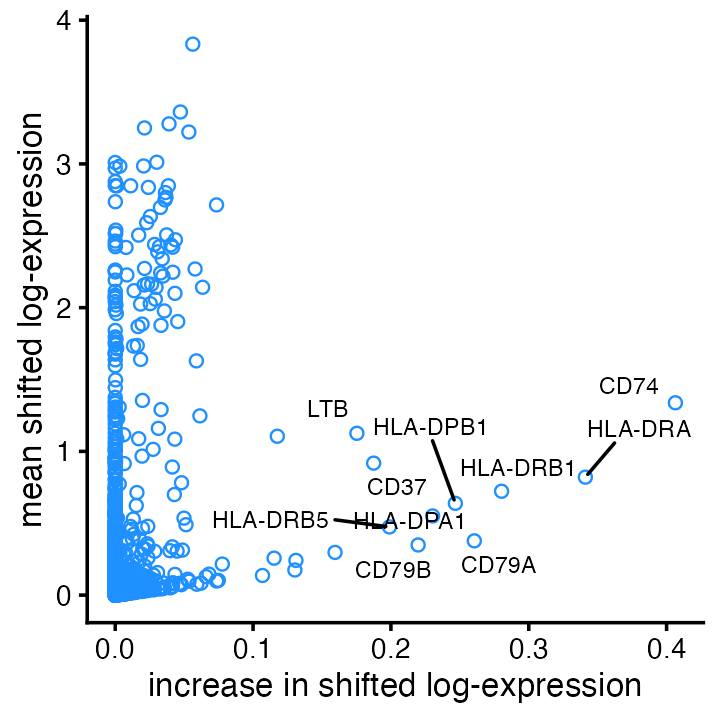
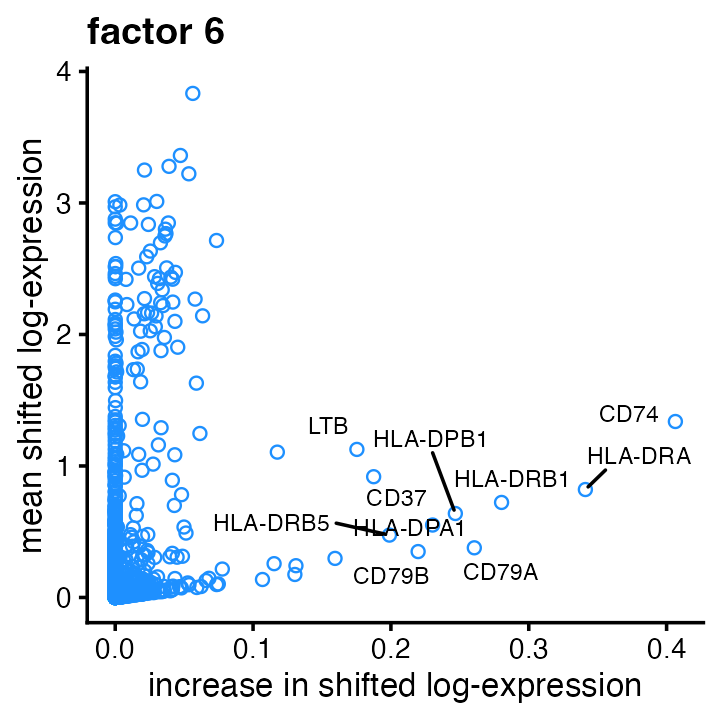
Added note about semi-NMF to single-cell vignette; also changed the title.

diff --git a/docs/articles/flashier_single_cell.html b/docs/articles/flashier_single_cell.html
@@ -5,13 +5,13 @@
 <meta charset="utf-8">
 <meta http-equiv="X-UA-Compatible" content="IE=edge">
 <meta name="viewport" content="width=device-width, initial-scale=1.0">
-<title>Analysis of single-cell RNA-seq data using flashier • flashier</title>
+<title>Empirical Bayes non-negative matrix factorization for single-cell RNA-seq data • flashier</title>
 <!-- jquery --><script src="https://cdnjs.cloudflare.com/ajax/libs/jquery/3.4.1/jquery.min.js" integrity="sha256-CSXorXvZcTkaix6Yvo6HppcZGetbYMGWSFlBw8HfCJo=" crossorigin="anonymous"></script><!-- Bootstrap --><link rel="stylesheet" href="https://cdnjs.cloudflare.com/ajax/libs/twitter-bootstrap/3.4.1/css/bootstrap.min.css" integrity="sha256-bZLfwXAP04zRMK2BjiO8iu9pf4FbLqX6zitd+tIvLhE=" crossorigin="anonymous">
 <script src="https://cdnjs.cloudflare.com/ajax/libs/twitter-bootstrap/3.4.1/js/bootstrap.min.js" integrity="sha256-nuL8/2cJ5NDSSwnKD8VqreErSWHtnEP9E7AySL+1ev4=" crossorigin="anonymous"></script><!-- bootstrap-toc --><link rel="stylesheet" href="../bootstrap-toc.css">
 <script src="../bootstrap-toc.js"></script><!-- Font Awesome icons --><link rel="stylesheet" href="https://cdnjs.cloudflare.com/ajax/libs/font-awesome/5.12.1/css/all.min.css" integrity="sha256-mmgLkCYLUQbXn0B1SRqzHar6dCnv9oZFPEC1g1cwlkk=" crossorigin="anonymous">
 <link rel="stylesheet" href="https://cdnjs.cloudflare.com/ajax/libs/font-awesome/5.12.1/css/v4-shims.min.css" integrity="sha256-wZjR52fzng1pJHwx4aV2AO3yyTOXrcDW7jBpJtTwVxw=" crossorigin="anonymous">
 <!-- clipboard.js --><script src="https://cdnjs.cloudflare.com/ajax/libs/clipboard.js/2.0.6/clipboard.min.js" integrity="sha256-inc5kl9MA1hkeYUt+EC3BhlIgyp/2jDIyBLS6k3UxPI=" crossorigin="anonymous"></script><!-- headroom.js --><script src="https://cdnjs.cloudflare.com/ajax/libs/headroom/0.11.0/headroom.min.js" integrity="sha256-AsUX4SJE1+yuDu5+mAVzJbuYNPHj/WroHuZ8Ir/CkE0=" crossorigin="anonymous"></script><script src="https://cdnjs.cloudflare.com/ajax/libs/headroom/0.11.0/jQuery.headroom.min.js" integrity="sha256-ZX/yNShbjqsohH1k95liqY9Gd8uOiE1S4vZc+9KQ1K4=" crossorigin="anonymous"></script><!-- pkgdown --><link href="../pkgdown.css" rel="stylesheet">
-<script src="../pkgdown.js"></script><meta property="og:title" content="Analysis of single-cell RNA-seq data using flashier">
+<script src="../pkgdown.js"></script><meta property="og:title" content="Empirical Bayes non-negative matrix factorization for single-cell RNA-seq data">
 <meta property="og:description" content="flashier">
 <!-- mathjax --><script src="https://cdnjs.cloudflare.com/ajax/libs/mathjax/2.7.5/MathJax.js" integrity="sha256-nvJJv9wWKEm88qvoQl9ekL2J+k/RWIsaSScxxlsrv8k=" crossorigin="anonymous"></script><script src="https://cdnjs.cloudflare.com/ajax/libs/mathjax/2.7.5/config/TeX-AMS-MML_HTMLorMML.js" integrity="sha256-84DKXVJXs0/F8OTMzX4UR909+jtl4G7SPypPavF+GfA=" crossorigin="anonymous"></script><!--[if lt IE 9]>
 <script src="https://oss.maxcdn.com/html5shiv/3.7.3/html5shiv.min.js"></script>
@@ -66,8 +66,8 @@
       </header><div class="row">
   <div class="col-md-9 contents">
     <div class="page-header toc-ignore">
-      <h1 data-toc-skip>Analysis of single-cell RNA-seq data using
-flashier</h1>
+      <h1 data-toc-skip>Empirical Bayes non-negative matrix
+factorization for single-cell RNA-seq data</h1>
             
       
       <small class="dont-index">Source: <a href="https://github.com/willwerscheid/flashier/blob/HEAD/vignettes/flashier_single_cell.Rmd" class="external-link"><code>vignettes/flashier_single_cell.Rmd</code></a></small>
@@ -77,8 +77,9 @@ flashier</h1>
 
     
     
-<p>The aim of this vignette is show how flashier can be used to analyze
-single-cell RNA-seq data. This vignette is modeled after the <a href="https://stephenslab.github.io/fastTopics/articles/single_cell_rnaseq_basic.html" class="external-link">fastTopics
+<p>The aim of this vignette is show how flashier can be used to perform
+a non-negative matrix factorization (NMF) analysis of single-cell
+RNA-seq data. This vignette is modeled after the <a href="https://stephenslab.github.io/fastTopics/articles/single_cell_rnaseq_basic.html" class="external-link">fastTopics
 vignette on analyzing single-cell data</a>.</p>
 <p>We begin by loading the required packages. We also set the seed so
 that results can be fully reproduced.</p>
@@ -163,14 +164,15 @@ from getting too small.</p>
 <div class="section level2">
 <h2 id="fit-a-flashier-model">Fit a flashier model<a class="anchor" aria-label="anchor" href="#fit-a-flashier-model"></a>
 </h2>
-<p>Now we can call flash to fit a flashier model to the transformed
+<p>Now we can call flash to fit an NMF model to the transformed
 data:</p>
 <div class="sourceCode" id="cb5"><pre class="downlit sourceCode r">
 <code class="sourceCode R"><span><span class="va">fit</span> <span class="op">&lt;-</span> <span class="fu"><a href="../reference/flash.html">flash</a></span><span class="op">(</span><span class="va">shifted_log_counts</span>, </span>
 <span>             ebnm_fn <span class="op">=</span> <span class="va">ebnm_point_exponential</span>,</span>
 <span>             var_type <span class="op">=</span> <span class="fl">2</span>, </span>
 <span>             greedy_Kmax <span class="op">=</span> <span class="fl">8</span>, </span>
-<span>             S <span class="op">=</span> <span class="va">s1</span><span class="op">)</span></span>
+<span>             S <span class="op">=</span> <span class="va">s1</span>,</span>
+<span>             backfit <span class="op">=</span> <span class="cn">FALSE</span><span class="op">)</span></span>
 <span><span class="co">#&gt; Adding factor 1 to flash object...</span></span>
 <span><span class="co">#&gt; Adding factor 2 to flash object...</span></span>
 <span><span class="co">#&gt; Adding factor 3 to flash object...</span></span>
@@ -188,10 +190,11 @@ data:</p>
 <li><p><code>ebnm_fn = ebnm_point_exponential</code> forces both the
 <span class="math inline">\({\bf L}\)</span> and <span class="math inline">\({\bf F}\)</span> matrices in flashier to be
 non-negative, so this call will generate a non-negative matrix
-factorization (NMF) of the (transformed) counts matrix. Other types of
-matrix factorizations can be produced with different choices of the
+factorization of the (transformed) counts matrix. Other types of matrix
+factorizations can be produced with different choices of the
 <code>ebnm_fn</code> argument; this is explained in detail in the <a href="https://willwerscheid.github.io/flashier/articles/flashier_intro.html" class="external-link">Introduction
-to flashier vignette</a>.</p></li>
+to flashier vignette</a>. See also the notes at the bottom of this
+vignette.</p></li>
 <li><p><code>var_type = 2</code> means that we estimate column-wise
 (here, gene-wise) variances; that is, we estimate a different variance
 for each column (gene).</p></li>
@@ -199,6 +202,11 @@ for each column (gene).</p></li>
 8 factors. <strong>In practice we recommend using a larger
 value,</strong> but to keep the example simple and short we set it to 8
 here.</p></li>
+<li><p><code>backfit = FALSE</code> skips the backfitting step.
+Backfitting can often grealy improve the fit, and is generally
+recommended for better result, but can sometimes take a long time to
+complete. We have omitted the backfitting step here to shorten the
+<code><a href="../reference/flash.html">flash()</a></code> call.</p></li>
 </ul>
 <p>The plot method with default settings produces a “scree plot” showing
 the proportion of variance explained by each of the 8 factors:</p>
@@ -213,10 +221,8 @@ probably offer little insight into the biology of these cells).</p>
 </h2>
 <!-- Each cell in the single-cell data set is represented as a linear
 combination of the $K$ factors. -->
-<p>In this non-negative matrix factorization produced by flashier, the
-rows of the <span class="math inline">\({\bf L}\)</span> matrix contains
-the estimated “membership levels,” or “memberships,” for each cell. For
-example:</p>
+<p>In this matrix factorization, the rows of the <span class="math inline">\({\bf L}\)</span> matrix contains the estimated
+“membership levels,” or “memberships,” for each cell. For example:</p>
 <div class="sourceCode" id="cb7"><pre class="downlit sourceCode r">
 <code class="sourceCode R"><span><span class="va">cell_ids</span> <span class="op">&lt;-</span> <span class="fu"><a href="https://rdrr.io/r/base/c.html" class="external-link">c</a></span><span class="op">(</span><span class="st">"GATATATGTCAGTG-1-b_cells"</span>,</span>
 <span>              <span class="st">"GACAGTACCTGTGA-1-memory_t"</span>,</span>
@@ -352,18 +358,39 @@ approaches.</p>
 <span>         <span class="fu"><a href="https://ggplot2.tidyverse.org/reference/geom_point.html" class="external-link">geom_point</a></span><span class="op">(</span>shape <span class="op">=</span> <span class="fl">1</span>,color <span class="op">=</span> <span class="st">"dodgerblue"</span><span class="op">)</span> <span class="op">+</span></span>
 <span>         <span class="fu"><a href="https://ggrepel.slowkow.com/reference/geom_text_repel.html" class="external-link">geom_text_repel</a></span><span class="op">(</span>color <span class="op">=</span> <span class="st">"black"</span>,size <span class="op">=</span> <span class="fl">2.5</span>,max.overlaps <span class="op">=</span> <span class="cn">Inf</span><span class="op">)</span> <span class="op">+</span></span>
 <span>         <span class="fu"><a href="https://ggplot2.tidyverse.org/reference/labs.html" class="external-link">labs</a></span><span class="op">(</span>x <span class="op">=</span> <span class="st">"increase in shifted log-expression"</span>,</span>
-<span>              y <span class="op">=</span> <span class="st">"mean shifted log-expression"</span><span class="op">)</span> <span class="op">+</span></span>
+<span>              y <span class="op">=</span> <span class="st">"mean shifted log-expression"</span>,</span>
+<span>              title <span class="op">=</span> <span class="fu"><a href="https://rdrr.io/r/base/paste.html" class="external-link">paste</a></span><span class="op">(</span><span class="st">"factor"</span>,<span class="va">k</span><span class="op">)</span><span class="op">)</span> <span class="op">+</span></span>
 <span>         <span class="fu"><a href="https://wilkelab.org/cowplot/reference/theme_cowplot.html" class="external-link">theme_cowplot</a></span><span class="op">(</span>font_size <span class="op">=</span> <span class="fl">10</span><span class="op">)</span><span class="op">)</span></span>
 <span><span class="op">}</span></span>
 <span><span class="fu">plot_change_vs_mean</span><span class="op">(</span><span class="va">fit</span>,<span class="va">mu</span>,<span class="va">pbmc_facs</span><span class="op">$</span><span class="va">genes</span><span class="op">$</span><span class="va">symbol</span>,k <span class="op">=</span> <span class="fl">6</span><span class="op">)</span></span></code></pre></div>
 <p><img src="flashier_single_cell_files/figure-html/plot-change-vs-mean-1.png" width="360" style="display: block; margin: auto;"></p>
 </div>
 <div class="section level2">
+<h2 id="other-notes">Other notes<a class="anchor" aria-label="anchor" href="#other-notes"></a>
+</h2>
+<p>While we have focussed on NMF, flashier is very flexible, and other
+types of matrix factorizations are possible. One alternative to NMF that
+could potentially reveal other interesting substructures is a
+<em>semi-non-negative matrix factorization</em> (semi-NMF). This is
+achieved by assigning different priors to <span class="math inline">\({\bf L}\)</span> and <span class="math inline">\({\bf F}\)</span>: a prior with non-negative
+support (such as the point-exponential prior) for <span class="math inline">\({\bf L}\)</span>; and a prior with support for all
+real numbers for <span class="math inline">\({\bf F}\)</span> (such as
+the point-Laplace prior). The call to <code><a href="../reference/flash.html">flash()</a></code> looks the
+same as above except for the “ebnm_fn” argument:</p>
+<div class="sourceCode" id="cb15"><pre class="downlit sourceCode r">
+<code class="sourceCode R"><span><span class="va">fit_snmf</span> <span class="op">&lt;-</span> <span class="fu"><a href="../reference/flash.html">flash</a></span><span class="op">(</span><span class="va">shifted_log_counts</span>, </span>
+<span>                  ebnm_fn <span class="op">=</span> <span class="fu"><a href="https://rdrr.io/r/base/c.html" class="external-link">c</a></span><span class="op">(</span><span class="va">ebnm_point_exponential</span>, <span class="va">ebnm_point_laplace</span><span class="op">)</span>,</span>
+<span>                  var_type <span class="op">=</span> <span class="fl">2</span>, </span>
+<span>                  greedy_Kmax <span class="op">=</span> <span class="fl">8</span>, </span>
+<span>                  S <span class="op">=</span> <span class="va">s1</span>,</span>
+<span>                  backfit <span class="op">=</span> <span class="cn">FALSE</span><span class="op">)</span></span></code></pre></div>
+</div>
+<div class="section level2">
 <h2 id="session-info">Session info<a class="anchor" aria-label="anchor" href="#session-info"></a>
 </h2>
 <p>This is the version of R and the packages that were used to generate
 these results.</p>
-<div class="sourceCode" id="cb15"><pre class="downlit sourceCode r">
+<div class="sourceCode" id="cb16"><pre class="downlit sourceCode r">
 <code class="sourceCode R"><span><span class="fu"><a href="https://rdrr.io/r/utils/sessionInfo.html" class="external-link">sessionInfo</a></span><span class="op">(</span><span class="op">)</span></span>
 <span><span class="co">#&gt; R version 4.3.3 (2024-02-29)</span></span>
 <span><span class="co">#&gt; Platform: aarch64-apple-darwin20 (64-bit)</span></span>
